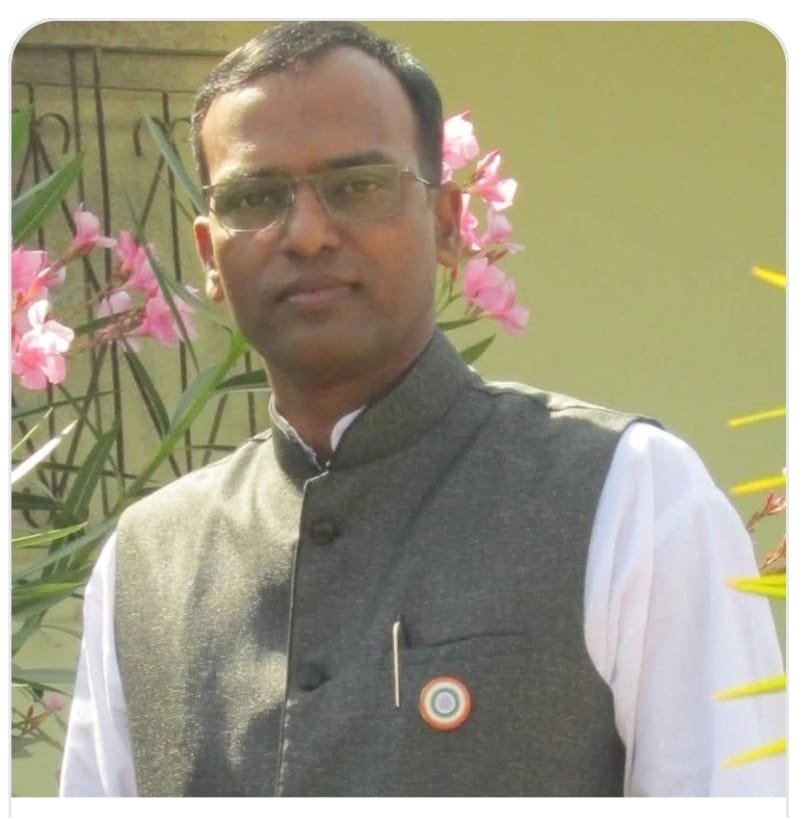
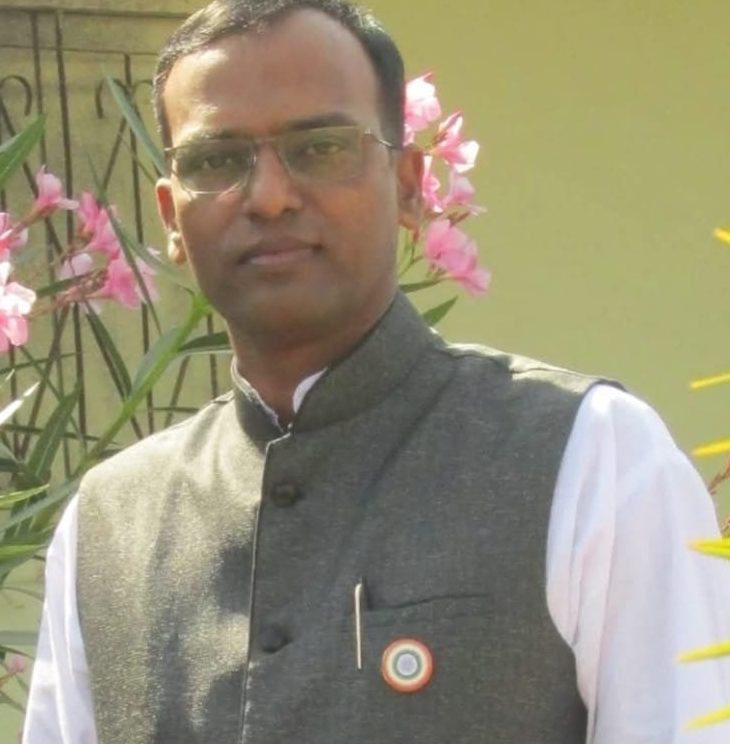
Update staff photos framing and optimize telecaller layout

diff --git a/shared/layouts/TelecallerLayout.jsx b/shared/layouts/TelecallerLayout.jsx
@@ -17,8 +17,7 @@ import {
   Flame,
   CheckCircle2,
   Calendar,
-  Building2,
-  ChevronRight
+  Building2
 } from 'lucide-react';
 import { useAuth } from '../contexts/AuthContext';
 import { useCRM } from '../contexts/CRMContext';
@@ -26,10 +25,10 @@ import { useLanguage } from '../contexts/LanguageContext';
 import { Badge } from '../components/common/Badge';
 import { LanguageSwitcher } from '../components/common/LanguageSwitcher';
 import { NotificationCenter } from '../components/common/NotificationCenter';
-import { getPublicWebsiteUrl, getAdminPanelUrl } from '../services/navigation/navigationUrls';
+import { getPublicWebsiteUrl } from '../services/navigation/navigationUrls';
 
 export const TelecallerLayout = () => {
-  const { currentUser, userProfile, logout, isAdmin, isSuperAdmin, isTelecaller } = useAuth();
+  const { currentUser, userProfile, logout, isTelecaller } = useAuth();
   const { leads, getMetrics } = useCRM();
   const { isMarathi } = useLanguage();
   const location = useLocation();
@@ -259,38 +258,6 @@ export const TelecallerLayout = () => {
           })}
         </nav>
 
-        {/* Telecaller Profile Card in Sidebar Footer */}
-        <div className="p-3 bg-slate-950/90 border-t border-slate-800/80">
-          <Link
-            to={prefix ? `${prefix}/profile` : '/profile'}
-            onClick={() => setSidebarOpen(false)}
-            className={`flex items-center gap-2.5 p-2 rounded-xl transition-all ${
-              isActive(prefix ? `${prefix}/profile` : '/profile')
-                ? 'bg-emerald-600 text-white shadow-md'
-                : 'bg-white/4 hover:bg-white/8 text-slate-200 border border-white/6'
-            }`}
-          >
-            <div className="relative shrink-0">
-              <div className="w-8 h-8 rounded-full bg-emerald-500/20 border border-emerald-500/40 flex items-center justify-center font-bold text-xs text-emerald-400">
-                {counselorInitial}
-              </div>
-              <span className="absolute -bottom-0.5 -right-0.5 w-2 h-2 rounded-full border-2 border-slate-900 bg-emerald-400" />
-            </div>
-
-            <div className="flex-1 min-w-0">
-              <div className="flex items-center justify-between gap-1">
-                <p className="text-xs font-bold truncate text-white">
-                  {counselorName}
-                </p>
-                <ChevronRight className="w-3.5 h-3.5 opacity-60 shrink-0" />
-              </div>
-              <p className="text-[10px] text-slate-400 truncate">
-                {counselorEmail}
-              </p>
-            </div>
-          </Link>
-        </div>
-
         {/* Footer actions */}
         <div className="p-3 border-t border-slate-800/80 space-y-1 bg-gurukul-navy-950/80">
           <a
@@ -364,15 +331,6 @@ export const TelecallerLayout = () => {
 
             {/* In-App Notification Center */}
             <NotificationCenter isTelecaller={true} />
-
-            {(isAdmin || isSuperAdmin) && (
-              <a
-                href={`${getAdminPanelUrl()}/admin/dashboard`}
-                className="hidden md:inline-flex items-center gap-1.5 px-3 py-1.5 rounded-xl text-xs font-bold bg-gurukul-navy-950 text-white hover:bg-gurukul-navy-900 transition-colors shadow-xs shrink-0"
-              >
-                <span>{isMarathi ? 'अॅडमिन पॅनेल' : 'Admin Panel'}</span>
-              </a>
-            )}
 
             <Badge variant="Telecaller" className="shrink-0">
               TELECALLER

diff --git a/src/layouts/TelecallerLayout.jsx b/src/layouts/TelecallerLayout.jsx
@@ -17,8 +17,7 @@ import {
   Flame,
   CheckCircle2,
   Calendar,
-  Building2,
-  ChevronRight
+  Building2
 } from 'lucide-react';
 import { useAuth } from '../contexts/AuthContext';
 import { useCRM } from '../contexts/CRMContext';
@@ -26,10 +25,10 @@ import { useLanguage } from '../contexts/LanguageContext';
 import { Badge } from '../components/common/Badge';
 import { LanguageSwitcher } from '../components/common/LanguageSwitcher';
 import { NotificationCenter } from '../components/common/NotificationCenter';
-import { getPublicWebsiteUrl, getAdminPanelUrl } from '../services/navigation/navigationUrls';
+import { getPublicWebsiteUrl } from '../services/navigation/navigationUrls';
 
 export const TelecallerLayout = () => {
-  const { currentUser, userProfile, logout, isAdmin, isSuperAdmin, isTelecaller } = useAuth();
+  const { currentUser, userProfile, logout, isTelecaller } = useAuth();
   const { leads, getMetrics } = useCRM();
   const { isMarathi } = useLanguage();
   const location = useLocation();
@@ -259,38 +258,6 @@ export const TelecallerLayout = () => {
           })}
         </nav>
 
-        {/* Telecaller Profile Card in Sidebar Footer */}
-        <div className="p-3 bg-slate-950/90 border-t border-slate-800/80">
-          <Link
-            to={prefix ? `${prefix}/profile` : '/profile'}
-            onClick={() => setSidebarOpen(false)}
-            className={`flex items-center gap-2.5 p-2 rounded-xl transition-all ${
-              isActive(prefix ? `${prefix}/profile` : '/profile')
-                ? 'bg-emerald-600 text-white shadow-md'
-                : 'bg-white/4 hover:bg-white/8 text-slate-200 border border-white/6'
-            }`}
-          >
-            <div className="relative shrink-0">
-              <div className="w-8 h-8 rounded-full bg-emerald-500/20 border border-emerald-500/40 flex items-center justify-center font-bold text-xs text-emerald-400">
-                {counselorInitial}
-              </div>
-              <span className="absolute -bottom-0.5 -right-0.5 w-2 h-2 rounded-full border-2 border-slate-900 bg-emerald-400" />
-            </div>
-
-            <div className="flex-1 min-w-0">
-              <div className="flex items-center justify-between gap-1">
-                <p className="text-xs font-bold truncate text-white">
-                  {counselorName}
-                </p>
-                <ChevronRight className="w-3.5 h-3.5 opacity-60 shrink-0" />
-              </div>
-              <p className="text-[10px] text-slate-400 truncate">
-                {counselorEmail}
-              </p>
-            </div>
-          </Link>
-        </div>
-
         {/* Footer actions */}
         <div className="p-3 border-t border-slate-800/80 space-y-1 bg-gurukul-navy-950/80">
           <a
@@ -364,15 +331,6 @@ export const TelecallerLayout = () => {
 
             {/* In-App Notification Center */}
             <NotificationCenter isTelecaller={true} />
-
-            {(isAdmin || isSuperAdmin) && (
-              <a
-                href={`${getAdminPanelUrl()}/admin/dashboard`}
-                className="hidden md:inline-flex items-center gap-1.5 px-3 py-1.5 rounded-xl text-xs font-bold bg-gurukul-navy-950 text-white hover:bg-gurukul-navy-900 transition-colors shadow-xs shrink-0"
-              >
-                <span>{isMarathi ? 'अॅडमिन पॅनेल' : 'Admin Panel'}</span>
-              </a>
-            )}
 
             <Badge variant="Telecaller" className="shrink-0">
               TELECALLER

diff --git a/shared/pages/StaffPage.jsx b/shared/pages/StaffPage.jsx
@@ -505,18 +505,19 @@ export const StaffPage = () => {
 
                     <div className="p-5 sm:p-6 space-y-4">
                       {/* Role & Avatar / Photo */}
-                      <div className="flex items-start gap-4">
+                      <div className="flex items-start gap-3.5 sm:gap-4">
                         {staff.image ? (
-                          <div className="w-18 h-22 sm:w-20 sm:h-24 rounded-2xl overflow-hidden border-2 border-orange-200/90 shadow-md shrink-0 group-hover:scale-105 transition-transform bg-slate-100">
+                          <div className="w-20 h-24 sm:w-24 sm:h-28 rounded-2xl overflow-hidden border-2 border-orange-200/90 shadow-md shrink-0 group-hover:scale-105 transition-transform bg-slate-100 ring-1 ring-orange-500/10">
                             <img 
                               src={staff.image} 
                               alt={staff.name} 
-                              className="w-full h-full object-cover object-center"
+                              loading="lazy"
+                              className="w-full h-full object-cover object-top"
                             />
                           </div>
                         ) : (
-                          <div className={`w-14 h-14 rounded-2xl bg-gradient-to-br ${staff.accentColor} text-white flex items-center justify-center font-black text-xl shadow-md shrink-0 group-hover:scale-105 transition-transform`}>
-                            <IconComponent className="w-7 h-7" />
+                          <div className={`w-16 h-16 sm:w-20 sm:h-20 rounded-2xl bg-gradient-to-br ${staff.accentColor} text-white flex items-center justify-center font-black text-xl shadow-md shrink-0 group-hover:scale-105 transition-transform`}>
+                            <IconComponent className="w-8 h-8" />
                           </div>
                         )}
                         <div className="flex-1 min-w-0">

diff --git a/src/pages/StaffPage.jsx b/src/pages/StaffPage.jsx
@@ -505,18 +505,19 @@ export const StaffPage = () => {
 
                     <div className="p-5 sm:p-6 space-y-4">
                       {/* Role & Avatar / Photo */}
-                      <div className="flex items-start gap-4">
+                      <div className="flex items-start gap-3.5 sm:gap-4">
                         {staff.image ? (
-                          <div className="w-18 h-22 sm:w-20 sm:h-24 rounded-2xl overflow-hidden border-2 border-orange-200/90 shadow-md shrink-0 group-hover:scale-105 transition-transform bg-slate-100">
+                          <div className="w-20 h-24 sm:w-24 sm:h-28 rounded-2xl overflow-hidden border-2 border-orange-200/90 shadow-md shrink-0 group-hover:scale-105 transition-transform bg-slate-100 ring-1 ring-orange-500/10">
                             <img 
                               src={staff.image} 
                               alt={staff.name} 
-                              className="w-full h-full object-cover object-center"
+                              loading="lazy"
+                              className="w-full h-full object-cover object-top"
                             />
                           </div>
                         ) : (
-                          <div className={`w-14 h-14 rounded-2xl bg-gradient-to-br ${staff.accentColor} text-white flex items-center justify-center font-black text-xl shadow-md shrink-0 group-hover:scale-105 transition-transform`}>
-                            <IconComponent className="w-7 h-7" />
+                          <div className={`w-16 h-16 sm:w-20 sm:h-20 rounded-2xl bg-gradient-to-br ${staff.accentColor} text-white flex items-center justify-center font-black text-xl shadow-md shrink-0 group-hover:scale-105 transition-transform`}>
+                            <IconComponent className="w-8 h-8" />
                           </div>
                         )}
                         <div className="flex-1 min-w-0">
